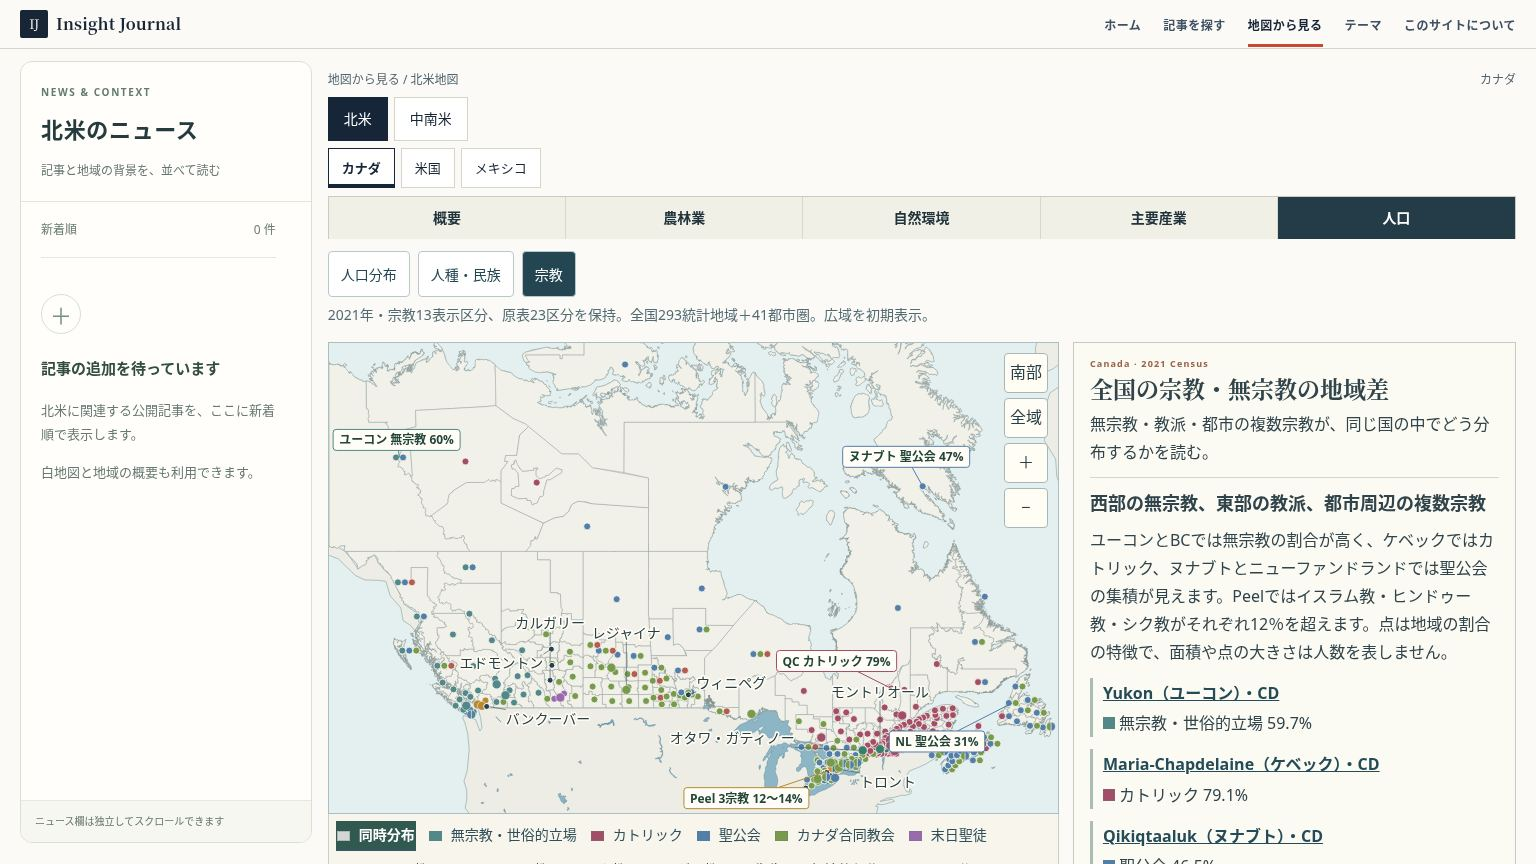
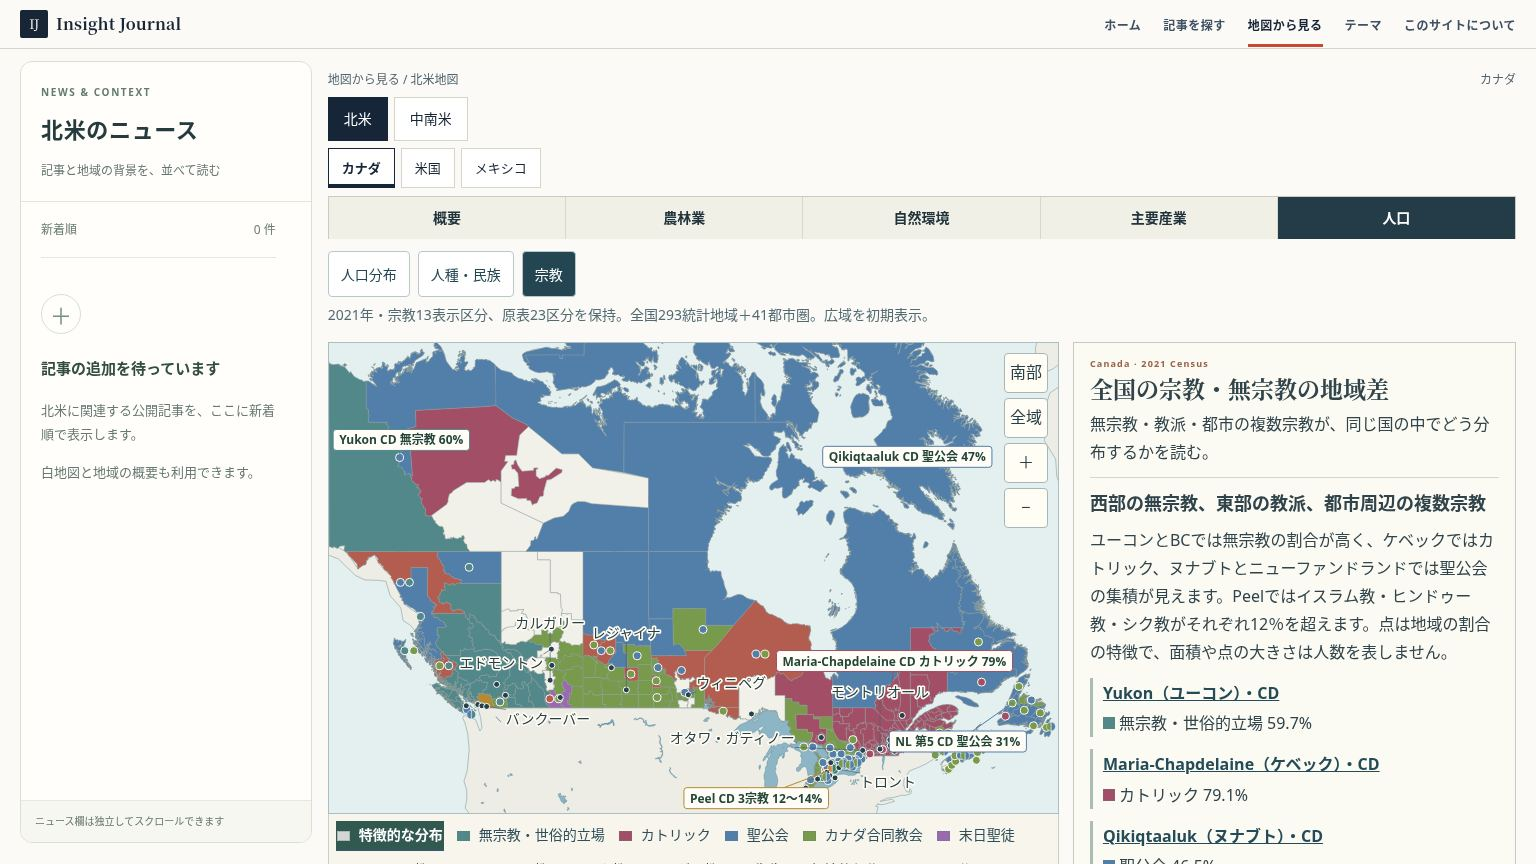
カナダ宗教の特徴的分布をCDの面で表示

Changed region(s): [[0.1875, 0.375, 0.6875, 1.0]]

diff --git a/src/scripts/atlas-canada-population-overview.ts b/src/scripts/atlas-canada-population-overview.ts
@@ -20,12 +20,12 @@ export function renderCanadaPopulationOverview(root:HTMLElement,config:any,state
  for(const s of ['[data-population-population-legend]','[data-population-density-legend]','[data-demographic-share-legend]','[data-demographic-count-legend]'])$(s).hidden=true;
  function addKey(name:string,color:string,id?:string,container:HTMLElement=key){const el=document.createElement(id!==undefined?'button':'span'),swatch=document.createElement('i');swatch.style.background=color;el.append(swatch,document.createTextNode(name));if(id!==undefined){el.setAttribute('type','button');el.dataset.populationCategory=id;el.setAttribute('aria-pressed',String(id===''?!filtered:filtered&&demographic.group===id));el.addEventListener('click',()=>{root.dataset.populationReadingFocus='group';choose(id||null);});}container.append(el);}
  if(!data){['0','>0–1','>1–<10','10–<100','100–<1,000','1,000–<10,000','10,000以上'].forEach((n,i)=>addKey(n,densityColors[i]));addKey('未公表',missingColor);}else if(topic==='religion'){
-  addKey('同時分布','#d3d6d4','');for(const id of canadaReligionInitialIds){const g=data.groups.find((group:any)=>group.id===id);addKey(g.name,colors[id],id);}
+  addKey('特徴的な分布','#d3d6d4','');for(const id of canadaReligionInitialIds){const g=data.groups.find((group:any)=>group.id===id);addKey(g.name,colors[id],id);}
   const detail=document.createElement('details'),summary=document.createElement('summary');summary.textContent='ほか3区分';detail.className='population-religion-extra';detail.append(summary);for(const id of ['2','other-christian','24']){const g=data.groups.find((group:any)=>group.id===id);addKey(g.name,colors[id],id,detail);}key.append(detail);
  }else{addKey('全体の集積','#d3d6d4','');for(const g of data.groups)addKey(g.name,colors[g.id],g.id);addKey('複数集積（等幅の縞）','repeating-linear-gradient(135deg,#617989 0 5px,#dfd8c8 5px 10px)');addKey('集積基準外・背景','#d3d6d4');addKey('未公表',missingColor);}
- const filterKey=$('[data-population-filter-key]');filterKey.hidden=!filtered;filterKey.replaceChildren();if(filtered){const g=data.groups.find((g:any)=>g.id===demographic.group);filterKey.append(document.createTextNode(topic==='religion'?g.name+'を強調。他の集積も薄く残します。':g.name+'の人口割合：'));if(topic!=='religion')['1%未満','1–5%未満','5–10%未満','10–25%未満','25–50%未満','50%以上'].forEach((label,i)=>{const item=document.createElement('span'),swatch=document.createElement('i');swatch.style.background=canadaDemographicShareColor([0,1,5,10,25,50][i]);item.append(swatch,label);filterKey.append(item);});}
+ const filterKey=$('[data-population-filter-key]');filterKey.hidden=!filtered;filterKey.replaceChildren();if(filtered){const g=data.groups.find((g:any)=>g.id===demographic.group);filterKey.append(document.createTextNode(topic==='religion'?g.name+'が集積基準に該当するCDを強調。他の分布も薄く残します。':g.name+'の人口割合：'));if(topic!=='religion')['1%未満','1–5%未満','5–10%未満','10–25%未満','25–50%未満','50%以上'].forEach((label,i)=>{const item=document.createElement('span'),swatch=document.createElement('i');swatch.style.background=canadaDemographicShareColor([0,1,5,10,25,50][i]);item.append(swatch,label);filterKey.append(item);});}
  const coverage=ready?'全国293統計地域＋41都市圏。'+(topic==='religion'?'広域を初期表示。':'南部を初期表示。'):'地域境界を読み込み中。現在は41都市圏を表示。',ethnicityNote='可視的少数者の公式区分を使用。「該当しない」は白人と同義ではありません。先住民アイデンティティは別集計で、この区分と重複するため全行を合計しません。';
- const note=!data?'人口密度（人/km²）、2021年の地域平均。地図の面積は人数ではありません。':topic==='religion'?'点はCD内で5%以上かつ全国割合の1.5倍以上の所属がある区分。複数の色を同時表示し、色点の大きさは人数や割合ではありません。都市圏の点はCDと重複するため合計しません。':filtered?'選択した区分の実際の人口割合を濃淡で表示します。':concentrationNote+' 都市の色点は同時に集積する区分。点の分割面積は割合・人数を示しません。';
+ const note=!data?'人口密度（人/km²）、2021年の地域平均。地図の面積は人数ではありません。':topic==='religion'?'CD内5%以上かつ全国割合の1.5倍以上の区分から、全国比が最も高い区分をCDの面色にします。併存する該当区分は小さな色点で補います。色面はCDの集計範囲で、住民全員の所属や最多・過半数を示しません。':filtered?'選択した区分の実際の人口割合を濃淡で表示します。':concentrationNote+' 都市の色点は同時に集積する区分。点の分割面積は割合・人数を示しません。';
  $('[data-population-coverage]').textContent=note+' '+coverage;
  $('[data-population-coverage-brief]').textContent='2021年・'+(topic==='religion'?'宗教13表示区分、原表23区分を保持。':topic==='ethnicity'?'人口集団14区分（先住民は別集計）。':'人口密度。')+coverage;
  $('#canada-population-title').textContent=!data?'2021年カナダの地域別人口密度':topic==='religion'?'宗教・無宗教の特徴的な同時分布':filtered?data.groups.find((g:any)=>g.id===demographic.group).name+'の割合':'特徴的な集積（最多・過半数の地図ではありません）';$('#canada-population-desc').textContent=note;
@@ -36,14 +36,15 @@ export function renderCanadaPopulationOverview(root:HTMLElement,config:any,state
   patterns.replaceChildren();patterns.setAttribute('data-topic',topic);
   if(data&&topic!=='religion'){const seen=new Set<string>();for(const r of [...data.regions,...data.cmas]){const c=compose(r);if(c.qualified.length<2)continue;const id=patternId(c.qualified);if(seen.has(id))continue;seen.add(id);const pattern=document.createElementNS('http://www.w3.org/2000/svg','pattern');pattern.id=id;pattern.setAttribute('patternUnits','userSpaceOnUse');pattern.setAttribute('patternTransform','rotate(45)');pattern.setAttribute('width',String(c.qualified.length*8));pattern.setAttribute('height','8');pattern.dataset.populationConcentrationPattern='';const background=document.createElementNS('http://www.w3.org/2000/svg','rect');background.setAttribute('width',String(c.qualified.length*8));background.setAttribute('height','8');background.setAttribute('fill','#f0f3ef');pattern.append(background);for(const [i,g]of c.qualified.entries()){const stripe=document.createElementNS('http://www.w3.org/2000/svg','rect');stripe.setAttribute('x',String(i*8));stripe.setAttribute('y','0');stripe.setAttribute('width','6');stripe.setAttribute('height','8');stripe.setAttribute('fill',colors[g.id]);stripe.setAttribute('fill-opacity','.65');stripe.dataset.populationConcentrationGroup=g.id;pattern.append(stripe);}patterns.append(pattern);}}
  }
- function fill(r:any){if(!data)return densityColor(r.density?.value??r.density2021?.value??null);if(topic==='religion')return '#f1f0e9';if(filtered)return canadaDemographicShareColor(canadaDemographicShare(r.values[demographic.group]?.value??null,r.denominator.value));const c=compose(r);return c.missing?missingColor:c.qualified.length>1?`url(#${patternId(c.qualified)})`:c.primary?colors[c.primary.id]:'#d3d6d4';}
- for(const p of root.querySelectorAll<SVGElement>('[data-population-region]')){const r=(data?.regions??regional).find((r:any)=>r.id===p.dataset.populationRegion),c=data&&!filtered?compose(r):null;p.style.fill=fill(r);p.setAttribute('aria-label',nameOf(r)+'：'+(c?.qualified.length?'特徴的な集積 '+c.qualified.map((g:any)=>g.name).join('、')+'。':'州より細かい統計地域。')+'構成と割合を開く');p.setAttribute('aria-pressed',String(r.id===cd));p.classList.toggle('is-selected-region',r.id===cd);}
+ const focusQualified=(c:any)=>c.rows.some((row:any)=>row.id===demographic.group&&row.share!==null&&row.share>=5&&row.ratio!==null&&row.ratio>=1.5);
+ function fill(r:any){if(!data)return densityColor(r.density?.value??r.density2021?.value??null);if(topic==='religion'){const c=compose(r);return filtered&&focusQualified(c)?colors[demographic.group]:c.missing&&!c.primary?missingColor:c.primary?colors[c.primary.id]:'#f1f0e9';}if(filtered)return canadaDemographicShareColor(canadaDemographicShare(r.values[demographic.group]?.value??null,r.denominator.value));const c=compose(r);return c.missing?missingColor:c.qualified.length>1?`url(#${patternId(c.qualified)})`:c.primary?colors[c.primary.id]:'#d3d6d4';}
+ for(const p of root.querySelectorAll<SVGElement>('[data-population-region]')){const r=(data?.regions??regional).find((r:any)=>r.id===p.dataset.populationRegion),c=data?compose(r):null;p.style.fill=fill(r);p.style.fillOpacity=topic==='religion'&&filtered&&c&&!focusQualified(c)?'.38':'1';p.setAttribute('aria-label',nameOf(r)+'：'+(c?.qualified.length?'特徴的な集積 '+c.qualified.map((g:any)=>g.name).join('、')+'。':'州より細かい統計地域。')+'構成と割合を開く');p.setAttribute('aria-pressed',String(r.id===cd));p.classList.toggle('is-selected-region',r.id===cd);}
  for(const marker of root.querySelectorAll<SVGElement>('[data-population-map-cma]')){
   const id=marker.dataset.populationMapCma!,r=(data??config).cmas.find((r:any)=>r.id===id),c=data?compose(r):null;
   marker.style.display='';marker.querySelector<SVGElement>('[data-population-symbol]')!.style.display='none';marker.classList.toggle('is-selected-cma',!selectedRegion&&id===state.cma);marker.setAttribute('aria-pressed',String(!selectedRegion&&id===state.cma));
   const boundary=marker.querySelector<SVGElement>('[data-population-boundary]')!;boundary.style.fill=ready?'none':fill(r);boundary.style.stroke=ready?!selectedRegion&&id===state.cma?'#263f48':'none':'';boundary.style.pointerEvents=ready?'none':'';marker.querySelector('[data-population-category-dots]')?.remove();
   const label=marker.querySelector<SVGTextElement>('[data-population-label]')!,point=marker.querySelector<SVGCircleElement>('.population-anchor')!;label.textContent=japanese(r.name);label.style.fontSize='13px';label.style.display=id===state.cma||['535','462','933','825','835','602','505','705'].includes(id)?'':'none';
-  if(c&&(topic==='religion'||!filtered)&&c.qualified.length){const dots=document.createElementNS('http://www.w3.org/2000/svg','g');dots.dataset.populationCategoryDots='';dots.style.opacity=filtered?'.35':'1';c.qualified.forEach((g:any,i:number)=>{const dot=document.createElementNS('http://www.w3.org/2000/svg','circle');dot.setAttribute('cx',String(Number(point.getAttribute('cx'))+i*7));dot.setAttribute('cy',String(Number(point.getAttribute('cy'))+7));dot.setAttribute('r','3');dot.setAttribute('fill',colors[g.id]);dot.setAttribute('stroke','#fff');dots.append(dot);});marker.append(dots);}
+  if(c&&(topic==='religion'?c.qualified.length>1:!filtered&&c.qualified.length)){const dots=document.createElementNS('http://www.w3.org/2000/svg','g');dots.dataset.populationCategoryDots='';dots.style.opacity=filtered?'.6':'1';c.qualified.slice(0,3).forEach((g:any,i:number)=>{const dot=document.createElementNS('http://www.w3.org/2000/svg','circle');dot.setAttribute('cx',String(Number(point.getAttribute('cx'))+i*7));dot.setAttribute('cy',String(Number(point.getAttribute('cy'))+7));dot.setAttribute('r','3');dot.setAttribute('fill',colors[g.id]);dot.setAttribute('stroke','#fff');dots.append(dot);});marker.append(dots);}
   marker.setAttribute('aria-label',japanese(r.name)+'：'+(!data?`${r.density2021.value??'未公表'}人/km²`:c!.missing?'未公表値あり':c!.primary?c!.primary.name+' '+c!.primary.share.toFixed(1)+'%':'集積基準に達する区分なし')+'。都市圏の解説を開く');
  }
  const labels=[...root.querySelectorAll<SVGTextElement>('[data-population-label]')].filter(n=>n.style.display!=='none').sort((a,b)=>Number(b.closest('[data-population-map-cma]')?.getAttribute('data-population-map-cma')===state.cma)-Number(a.closest('[data-population-map-cma]')?.getAttribute('data-population-map-cma')===state.cma)),boxes:number[][]=[];
@@ -63,10 +64,10 @@ export function renderCanadaPopulationOverview(root:HTMLElement,config:any,state
  const simultaneous=$('[data-demographic-simultaneous]');simultaneous.hidden=!hasSelection||!c.qualified.length;simultaneous.textContent='同じ地域で集積基準に該当：'+c.qualified.map((row:any)=>row.name+' '+row.share.toFixed(1)+'%').join('、')+'。';
  const composition=$('[data-population-composition]') as HTMLDetailsElement,recordKey=topic+':'+(selectedRegion?.id??cma?.id??'national');if(composition.dataset.record!==recordKey){composition.open=hasSelection;composition.dataset.record=recordKey;}
  $('[data-demographic-heading]').textContent=hasSelection?selectedName+'・'+scope:topic==='ethnicity'?'全国の人口集団の分布':'全国の宗教・無宗教の地域差';$('[data-demographic-lead]').textContent=topic==='ethnicity'?'都市とその周辺を比べ、人口集団が特徴的に集まる場所を読む。':'無宗教・教派・都市の複数宗教が、同じ国の中でどう分布するかを読む。';
- $('[data-demographic-comparison]').textContent=!hasSelection&&!filtered?topic==='religion'?'同じCDに複数の色点を置き、特徴的な所属を同時に示します。都市圏は重なる別の集計です。地域を選ぶと各割合を読めます。':'単色は1区分、等幅の縞は同じ統計地域で特徴的に集まる複数区分を示します。都市の色点も複数区分を同時表示します。地域・都市を選ぶと実際の構成比を確認できます。':c.missing&&!c.qualified.length?'一部の構成比は未公表です。公表された区分のみ確認してください。':filtered?g.name+'：'+selectedCell.share.toFixed(1)+'% ／ 全国 '+selectedCell.national.toFixed(1)+'% ／ 全国比 '+selectedCell.ratio?.toFixed(2)+'倍':c.qualified.length?'特徴的な集積：'+c.qualified.map((row:any)=>row.name+' '+row.share.toFixed(1)+'%').join('、')+'。':'集積基準に達する区分はありません。住民がいないという意味ではありません。';
+ $('[data-demographic-comparison]').textContent=!hasSelection&&!filtered?topic==='religion'?'面色はCD内で全国比が最も高い特徴的な区分。小点は同じCDで基準に該当する別の区分です。都市圏は重なる別集計で、地域を選ぶと各割合を読めます。':'単色は1区分、等幅の縞は同じ統計地域で特徴的に集まる複数区分を示します。都市の色点も複数区分を同時表示します。地域・都市を選ぶと実際の構成比を確認できます。':c.missing&&!c.qualified.length?'一部の構成比は未公表です。公表された区分のみ確認してください。':filtered?g.name+'：'+selectedCell.share.toFixed(1)+'% ／ 全国 '+selectedCell.national.toFixed(1)+'% ／ 全国比 '+selectedCell.ratio?.toFixed(2)+'倍':c.qualified.length?'特徴的な集積：'+c.qualified.map((row:any)=>row.name+' '+row.share.toFixed(1)+'%').join('、')+'。':'集積基準に達する区分はありません。住民がいないという意味ではありません。';
  if(root.dataset.populationReadingFocus==='group'&&filtered){const top=data.regions.map((r:any)=>({name:nameOf(r),share:canadaDemographicShare(r.values[g.id]?.value??null,r.denominator.value)})).filter((r:any)=>r.share!==null).sort((a:any,b:any)=>b.share-a.share).slice(0,3);$('[data-demographic-heading]').textContent=g.name+'の分布';$('[data-demographic-comparison]').textContent='全国293統計地域で割合が高い地域：'+top.map((r:any)=>r.name+' '+r.share.toFixed(1)+'%').join('、')+'。';}
  const nationalRow=filtered?selectedCell:c.primary;$('[data-demographic-national]').hidden=!hasSelection&&!filtered;$('[data-demographic-national]').textContent=nationalRow?'全国の'+nationalRow.name+'：'+nationalRow.national.toFixed(2)+'%。':'';
- $('[data-demographic-definition]').textContent=topic==='ethnicity'?ethnicityNote:'所属の自己申告です。米国の宗教団体による所属者数とは調査方法が異なります。信仰の強さ・政治姿勢は示しません。';$('[data-demographic-classification]').textContent=(topic==='religion'?'原表23末端区分を重複なく13表示区分へ集約。地域で5%以上かつ全国割合の1.5倍以上を地図の点にし、その他キリスト教とその他の宗教は集計に残します。点はCDやCMAの表示用基点で、信徒の所在地ではありません。':concentrationMethod)+' 公式の地域区分や統計的有意差ではなく、分布を読むための編集基準です。';$('[data-demographic-quality]').textContent=selectedName+'：長形式未回答率 '+(selected.quality?.tnr?.longForm??'未公表')+'%。 '+(selected.quality?.notes??[]).join(' ');
+ $('[data-demographic-definition]').textContent=topic==='ethnicity'?ethnicityNote:'所属の自己申告です。米国の宗教団体による所属者数とは調査方法が異なります。信仰の強さ・政治姿勢は示しません。';$('[data-demographic-classification]').textContent=(topic==='religion'?'原表23末端区分を重複なく13表示区分へ集約。地域で5%以上かつ全国割合の1.5倍以上を満たす区分のうち、全国比が最大の区分でCDを塗り、併存する区分を小点で補います。その他キリスト教とその他の宗教は集計に残します。面はCDの集計範囲で、点は表示用基点です。':concentrationMethod)+' 公式の地域区分や統計的有意差ではなく、分布を読むための編集基準です。';$('[data-demographic-quality]').textContent=selectedName+'：長形式未回答率 '+(selected.quality?.tnr?.longForm??'未公表')+'%。 '+(selected.quality?.notes??[]).join(' ');
  const link=$('[data-demographic-population-link]') as HTMLAnchorElement;link.textContent=selectedName+'の2021年人口密度を見る';const target=new URL(location.href);target.searchParams.delete('topic');target.searchParams.delete('group');target.searchParams.delete('mapGroup');target.searchParams.set('metric','density');target.searchParams.set('year','2021');link.href=target.href;
  $('[data-population-composition-title]').textContent=hasSelection?selectedName+'・'+scope+'の構成（2021年）':'全国の構成（2021年）';$('[data-population-composition-note]').textContent='私的世帯人口を分母に使用。公表0と欠測・秘匿を区別。'+(topic==='ethnicity'?'先住民は別集計で他行と重複し、全行を足して100%にはなりません。':'キリスト教の親分類を除き、教派との二重計上を防いでいます。');
  const tbody=$('[data-population-composition-rows]');tbody.replaceChildren();for(const r of c.rows){const tr=document.createElement('tr'),name=document.createElement('th'),share=document.createElement('td'),count=document.createElement('td'),dot=document.createElement('i');dot.style.background=colors[r.id];name.append(dot,r.name);share.textContent=r.share===null?'未公表':r.share.toFixed(1)+'%';count.textContent=r.count===null?'未公表':r.count.toLocaleString('ja-JP')+'人';tr.append(name,share,count);tr.classList.toggle('is-active-category',filtered&&r.id===g.id);tbody.append(tr);}

diff --git a/src/scripts/atlas-canada-religion-map.ts b/src/scripts/atlas-canada-religion-map.ts
@@ -3,30 +3,29 @@ import {canadaReligionColor,canadaReligionComposition} from '../lib/atlas-canada
 const svg='http://www.w3.org/2000/svg';
 const element=<K extends keyof SVGElementTagNameMap>(name:K)=>document.createElementNS(svg,name);
 
-/** CD points identify source regions; CMA points are a separate, overlapping comparison. */
+/** A CD's strongest qualifying concentration colors its area; these marks preserve coexisting groups. */
 export function renderCanadaReligionMap(root:HTMLElement,data:any,focus:string|null,showCallouts:boolean){
  const map=root.querySelector<SVGSVGElement>('[data-population-map]')!,regions=root.querySelector<SVGGElement>('[data-religion-region-symbols]')!,callouts=root.querySelector<SVGGElement>('[data-religion-map-callouts]')!;
  regions.replaceChildren();callouts.replaceChildren();
- const frame=map.getBoundingClientRect(),viewBox=map.viewBox.baseVal,scale=Math.min(frame.width/viewBox.width,frame.height/viewBox.height)||1,radius=3.5/scale,step=7/scale,records=new Map(data.regions.map((record:any)=>[record.id,record]));
+ const frame=map.getBoundingClientRect(),viewBox=map.viewBox.baseVal,scale=Math.min(frame.width/viewBox.width,frame.height/viewBox.height)||1,radius=4/scale,step=9/scale,records=new Map(data.regions.map((record:any)=>[record.id,record]));
  for(const path of root.querySelectorAll<SVGPathElement>('[data-population-region]')){
   const record:any=records.get(path.dataset.populationRegion);if(!record)continue;
-  const composed=canadaReligionComposition(record,data),dots=composed.qualified.slice();
-  if(focus){const chosen=composed.rows.find((row:any)=>row.id===focus);if(chosen?.share>=1&&!dots.some((row:any)=>row.id===focus))dots.unshift(chosen);}
+  const composed=canadaReligionComposition(record,data),dots=composed.qualified.filter((row:any)=>row.id!==composed.primary?.id).sort((a:any,b:any)=>b.ratio-a.ratio);
   if(!dots.length)continue;
   const box=path.getBBox(),anchor=record.id==='6204'?[733,177]:null,cx=anchor?.[0]??box.x+box.width/2,cy=anchor?.[1]??box.y+box.height/2;
   const group=element('g');group.dataset.religionRegionDots=record.id;
-  for(const [index,row] of dots.slice(0,4).entries()){
-   const dot=element('circle');dot.setAttribute('cx',String(cx+(index-(Math.min(dots.length,4)-1)/2)*step));dot.setAttribute('cy',String(cy));dot.setAttribute('r',String(radius));dot.setAttribute('fill',canadaReligionColor[row.id]);dot.setAttribute('stroke','#fffdf5');dot.setAttribute('stroke-width',String(.8/scale));dot.setAttribute('opacity',focus&&row.id!==focus?'.22':'1');dot.dataset.religionDot=row.id;group.append(dot);
+  for(const [index,row] of dots.slice(0,2).entries()){
+   const dot=element('circle');dot.setAttribute('cx',String(cx+(index-(Math.min(dots.length,2)-1)/2)*step));dot.setAttribute('cy',String(cy));dot.setAttribute('r',String(radius));dot.setAttribute('fill',canadaReligionColor[row.id]);dot.setAttribute('stroke','#fffdf5');dot.setAttribute('stroke-width',String(1/scale));dot.setAttribute('opacity',focus&&row.id!==focus?'.35':'1');dot.dataset.religionDot=row.id;group.append(dot);
   }
   regions.append(group);
  }
  if(!showCallouts)return;
  const examples=[
-  {id:'6001',group:'25',text:'ユーコン 無宗教 60%',dx:-94,dy:-28},
-  {id:'6204',group:'6',text:'ヌナブト 聖公会 47%',dx:-80,dy:-40},
-  {id:'2492',group:'8',text:'QC カトリック 79%',dx:-115,dy:-38},
-  {id:'1005',group:'6',text:'NL 聖公会 31%',dx:-123,dy:28},
-  {id:'3521',group:'22',text:'Peel 3宗教 12〜14%',dx:-146,dy:28},
+  {id:'6001',group:'25',text:'Yukon CD 無宗教 60%',dx:-94,dy:-28},
+  {id:'6204',group:'6',text:'Qikiqtaaluk CD 聖公会 47%',dx:-80,dy:-40},
+  {id:'2492',group:'8',text:'Maria-Chapdelaine CD カトリック 79%',dx:-115,dy:-38},
+  {id:'1005',group:'6',text:'NL 第5 CD 聖公会 31%',dx:-123,dy:28},
+  {id:'3521',group:'22',text:'Peel CD 3宗教 12〜14%',dx:-146,dy:28},
  ];
  for(const item of examples){
   const path=root.querySelector<SVGPathElement>(`[data-population-region="${item.id}"]`);if(!path)continue;
